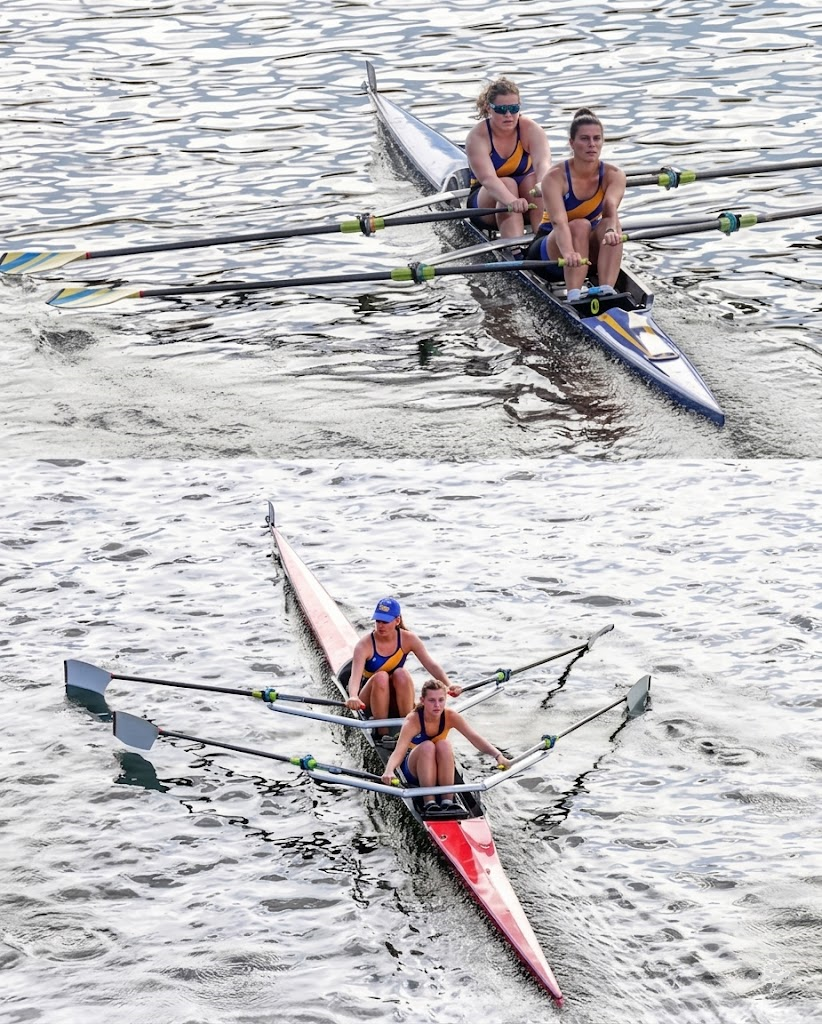
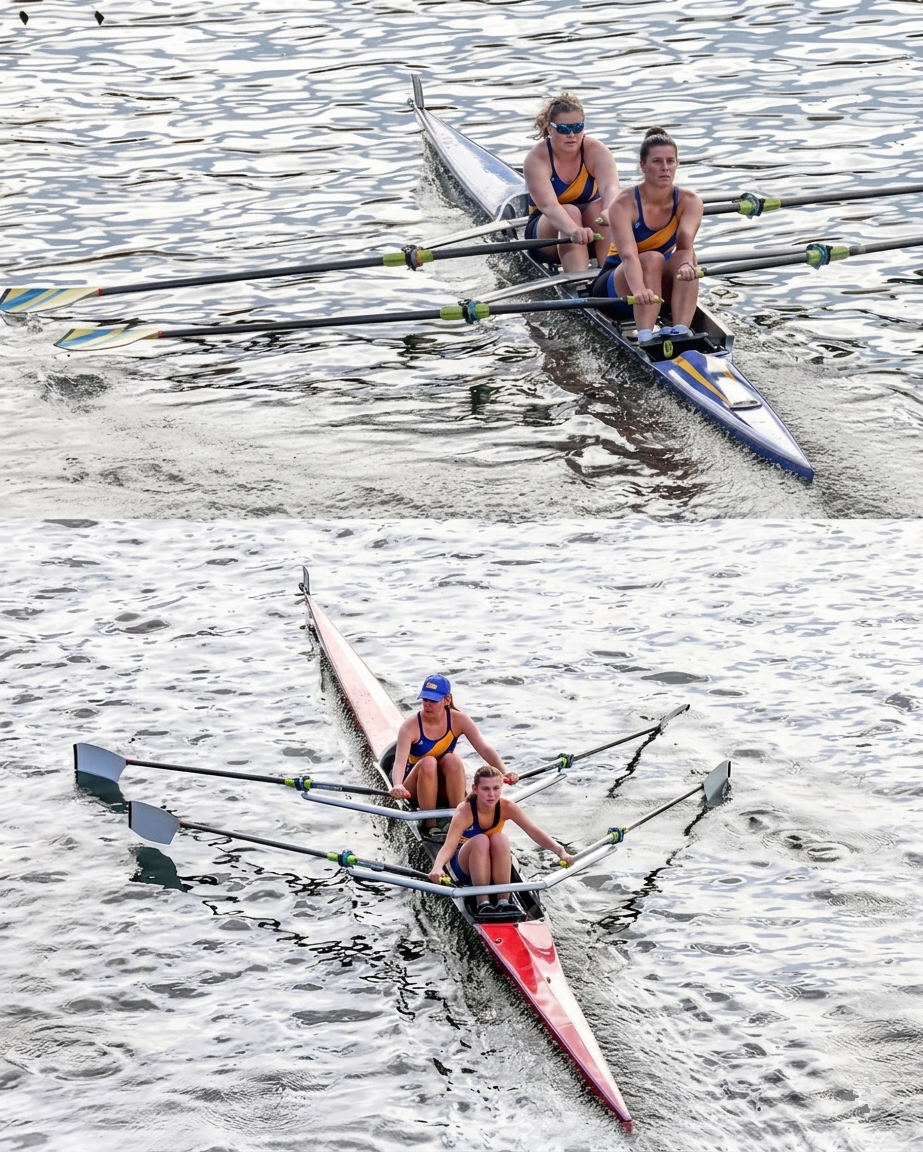
pic

diff --git a/js/initialSiteLoadMain.js b/js/initialSiteLoadMain.js
@@ -76,7 +76,9 @@ function fillPage(jsonData) {
         if (dict.carousel.includes("doubles26")) {
             img.style.height = 'auto';
             img.style.maxHeight = '55vh';
+            img.style.maxWidth = '100%';
             img.style.objectFit = 'contain';
+            img.style.margin = '0 auto';
         }
 
 
